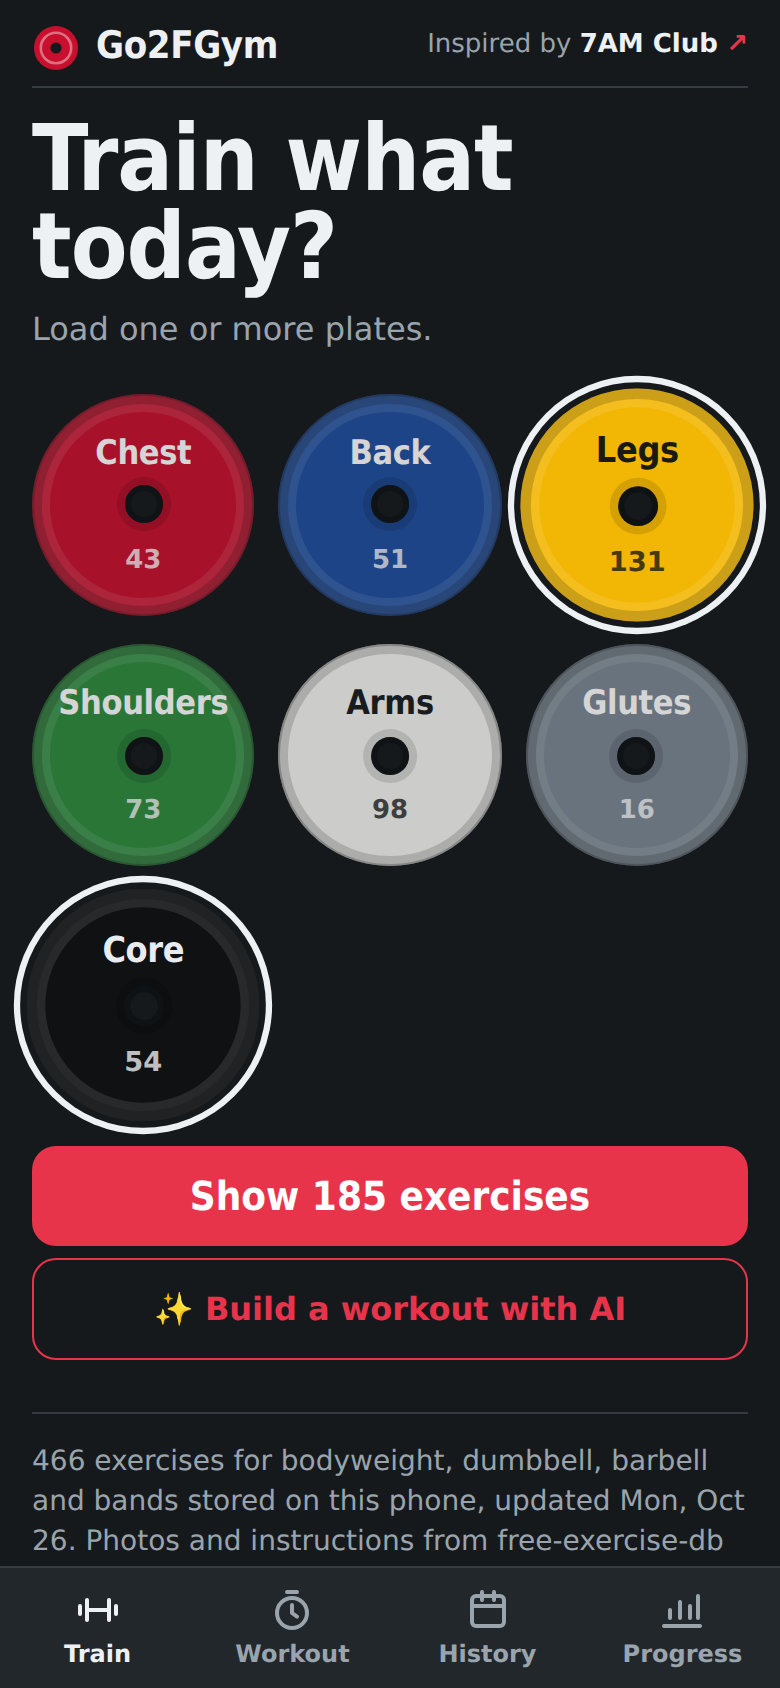
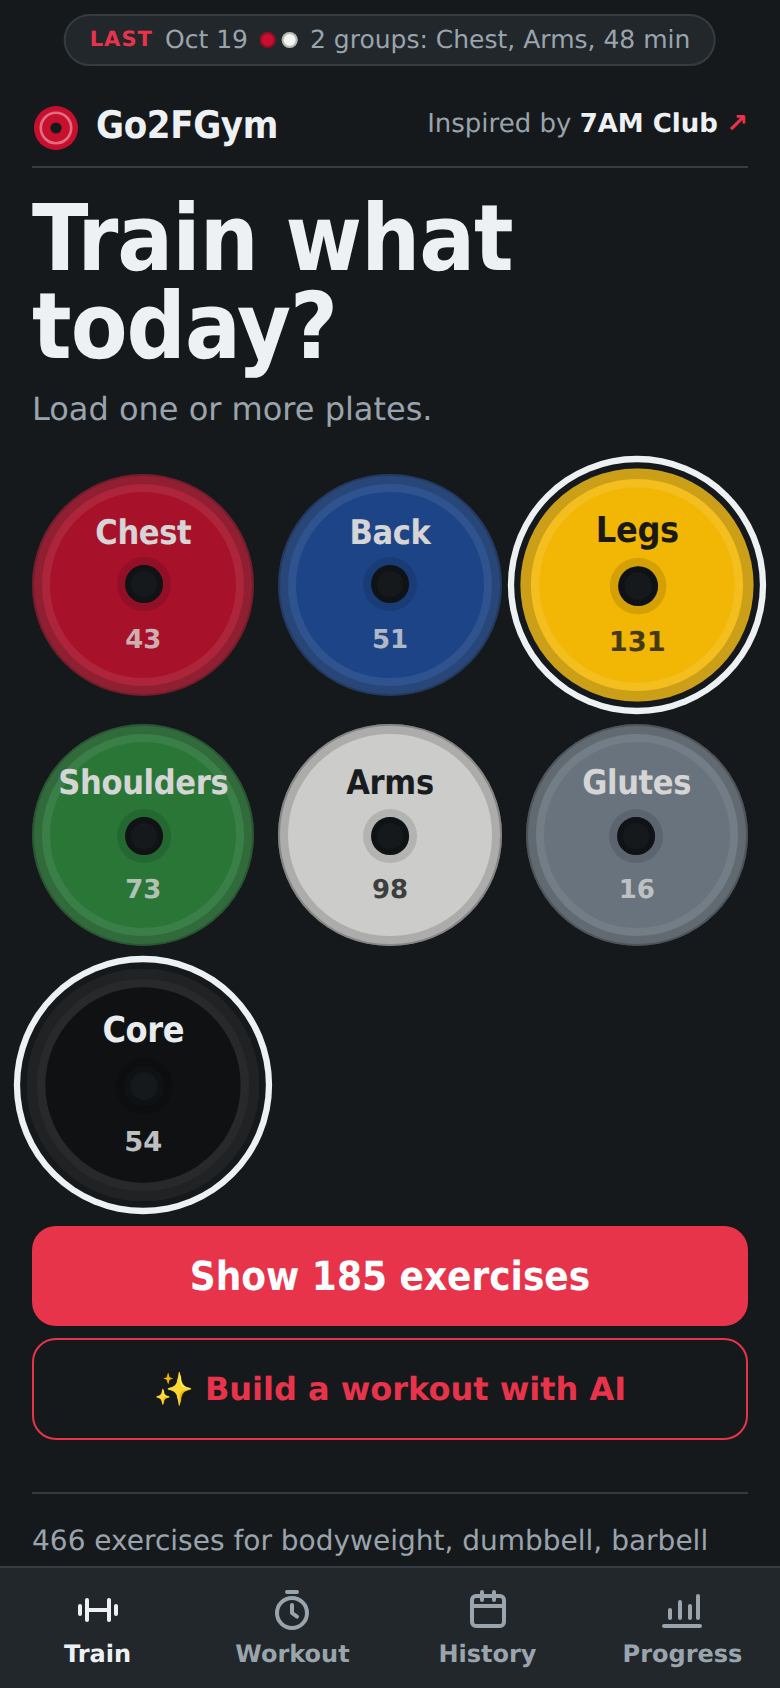
Header polish: last-workout pill replaces stray toast dot, Build workout in builder header, Build next in History and Progress headers

diff --git a/Go2FGym.js b/Go2FGym.js
@@ -459,6 +459,7 @@ function buildHTML(boot) {
 <body><main id="app"></main>
 <div id="rest" hidden><div class="rest-fill"></div><span class="rest-label">Rest</span><span class="rest-time">0:00</span>
 <button data-a="rest-add">+30 s</button><button data-a="rest-skip">Skip</button></div>
+<div id="sat"></div><button id="last" data-a="last" hidden></button>
 <div id="toast" role="status" aria-live="polite"></div><nav id="tabs"></nav>
 <script>window.__BOOT=${data};(${webApp.toString()})();</script></body></html>`;
 }
@@ -986,7 +987,8 @@ function webApp() {
     const b = S.builder;
     const busy = S.aiBusy === "plan";
     const bchip = (v, on, label) => `<button class="chip" data-a="b-chip" data-v="${esc(v)}" aria-pressed="${on}">${esc(label)}</button>`;
-    return `<header class="bar"><button class="back" data-a="home">‹ Muscles</button></header>
+    return `<header class="bar"><button class="back" data-a="home">‹ Muscles</button>
+        <button class="hbtn${busy ? " busy" : ""}" data-a="build" ${busy || !S.ai.hasKey || !b.equipment.length ? "disabled" : ""}>${busy ? "Building…" : "Build workout"}</button></header>
       <h1 class="title">Build my workout</h1>
       <p class="lead">Tell the AI coach what you want. It picks exercises from your library, sets weights from your history and fits it all into your time.</p>
       <h2>What to train</h2>
@@ -1000,8 +1002,7 @@ function webApp() {
       <h2>Anything else?</h2>
       <textarea class="search" data-in="b-note" rows="2" placeholder="Optional, e.g. lower back is a bit sore, or I want to get better at bench press">${esc(b.note)}</textarea>
       ${S.ai.hasKey ? "" : keyBox()}
-      <button class="primary${busy ? " busy" : ""}" data-a="build" ${busy || !S.ai.hasKey || !b.equipment.length ? "disabled" : ""}>${busy ? "Building your workout…" : "Build workout"}</button>
-      <p class="muted small">AI suggestions can be wrong. Check every weight before you lift it.</p>`;
+      <p class="muted small">${busy ? "<b>Building your workout…</b> " : ""}${S.ai.hasKey ? "Tap <b>Build workout</b> at the top when you're ready. " : "Save your key above to enable <b>Build workout</b>. "}AI suggestions can be wrong. Check every weight before you lift it.</p>`;
   }
 
   function renderPlan() {
@@ -1048,7 +1049,6 @@ function webApp() {
       ${focus ? `<h3>Focus next</h3>${focus}` : ""}
       ${a.recovery ? `<h3>Recovery</h3><p>${esc(a.recovery)}</p>` : ""}
       ${a.next.idea ? `<h3>Next workout${a.next.when ? `: ${esc(a.next.when)}` : ""}</h3><p>${nextLabels ? `<b>${esc(nextLabels)}.</b> ` : ""}${esc(a.next.idea)}</p>` : ""}
-      ${a.next.groups.length ? `<button class="primary" data-a="build-next" data-v="${esc(s.id)}">✨ Build this next workout</button>` : ""}
       <button class="link small" data-a="reanalyze" data-v="${esc(s.id)}" ${S.aiBusy ? "disabled" : ""}>${busy ? "Analyzing…" : "Analyze again"}</button>
     </div>`;
   }
@@ -1311,7 +1311,7 @@ function webApp() {
 
   function renderHistory() {
     const ss = sessionsDesc();
-    const head = `<header class="bar"><h1 class="title">History</h1>${ss.length ? `<button class="link" data-a="export">Export CSV</button>` : ""}</header>`;
+    const head = `<header class="bar"><h1 class="title">History</h1>${ss.length ? nextButton() : ""}</header>`;
     if (!ss.length) return head + `<div class="empty"><p>Finished workouts show up here, with every set you logged.</p></div>`;
     const monday = new Date();
     monday.setHours(0, 0, 0, 0);
@@ -1323,7 +1323,8 @@ function webApp() {
       : "No workouts yet this week.";
     const seg = `<div class="seg seg2"><button data-a="hist-view" data-v="calendar" aria-pressed="${S.histView === "calendar"}">Calendar</button>
       <button data-a="hist-view" data-v="list" aria-pressed="${S.histView === "list"}">List</button></div>`;
-    return head + `<p class="lead">${esc(summary)}</p>` + seg + (S.histView === "calendar" ? renderCalendar(ss) : ss.map((s) => sessCard(s)).join(""));
+    return head + `<p class="lead">${esc(summary)}</p>` + seg + (S.histView === "calendar" ? renderCalendar(ss) : ss.map((s) => sessCard(s)).join("")) +
+      `<button class="link" data-a="export">Export CSV</button>`;
   }
 
   function weekStart(d) {
@@ -1334,7 +1335,7 @@ function webApp() {
   }
   function renderProgress() {
     const asc = [...S.history.sessions].sort((a, b) => a.start.localeCompare(b.start));
-    const head = `<header class="bar"><h1 class="title">Progress</h1></header>`;
+    const head = `<header class="bar"><h1 class="title">Progress</h1>${asc.length ? nextButton() : ""}</header>`;
     if (!asc.length) return head + `<div class="empty"><p>Log a few workouts and your trends show up here: weekly volume by muscle group, balance, and your best lifts.</p></div>`;
     // weekly sets stacked by muscle group, last 12 weeks
     const thisWeek = weekStart(new Date());
@@ -1412,8 +1413,48 @@ function webApp() {
       <h2>Muscle balance, last 4 weeks</h2>
       <p class="muted small">Working sets per muscle group, and days since you last trained it. Most due: <b>${dueG.label}</b>.</p>
       <div class="balance">${balance}</div>
-      ${top.length ? `<h2>Your lifts</h2><p class="muted small">Best set per workout as an estimated one-rep max (reps for bodyweight moves). Tap one for details.</p><div class="lifts">${liftRows}</div>` : ""}
-      <button class="secondary ai" data-a="build-due" data-v="${dueG.key}">✨ Build a ${dueG.label.toLowerCase()} workout</button>`;
+      ${top.length ? `<h2>Your lifts</h2><p class="muted small">Best set per workout as an estimated one-rep max (reps for bodyweight moves). Tap one for details.</p><div class="lifts">${liftRows}</div>` : ""}`;
+  }
+
+  // ------------------------------------------------ next workout + last-workout pill
+  function nextSuggestion() {
+    const latest = sessionsDesc()[0];
+    if (latest && latest.ai && latest.ai.next && latest.ai.next.groups.length) {
+      const f = latest.ai.focus_next.find((x) => latest.ai.next.groups.includes(x.group));
+      return { groups: latest.ai.next.groups, intensity: f ? (f.intensity === "light" ? "easy" : f.intensity) : null, why: "your AI coach's suggestion" };
+    }
+    const due = groupStats(28).sort((a, b) => (b.days_since_trained ?? 99) - (a.days_since_trained ?? 99)).slice(0, 2).map((x) => x.group);
+    return { groups: due, intensity: null, why: "your most-due muscle groups" };
+  }
+  function nextButton() {
+    const n = nextSuggestion();
+    const labels = n.groups.map((k) => GROUPS.find((g) => g.key === k).label).join(" + ");
+    return `<button class="hbtn" data-a="build-next-h" aria-label="Build next workout: ${esc(labels)}, based on ${esc(n.why)}">✨ Build next</button>`;
+  }
+  function relDay(iso) {
+    const a = new Date(iso); a.setHours(0, 0, 0, 0);
+    const b = new Date(); b.setHours(0, 0, 0, 0);
+    const d = Math.round((b - a) / 864e5);
+    if (d === 0) return "Today";
+    if (d === 1) return "Yesterday";
+    if (d < 7) return a.toLocaleDateString(undefined, { weekday: "short" });
+    return a.toLocaleDateString(undefined, { day: "numeric", month: "short" });
+  }
+  function updateLast() {
+    const el = $("#last");
+    const s = S.consent ? sessionsDesc()[0] : null;
+    if (!s) { el.hidden = true; return; }
+    const gs = sessionGroups(s);
+    const mins = s.end ? minutesBetween(s.start, s.end) : null;
+    el.innerHTML = `<span class="last-k">Last</span>${esc(relDay(s.start))}<span class="dots">${dotsFor(gs)}</span>${gs.length ? `${plural(gs.length, "group")}: ${esc(gs.map((g) => g.label).join(", "))}` : plural(s.entries.length, "exercise")}${mins ? `, ${mins} min` : ""}`;
+    el.setAttribute("aria-label", `Last workout ${relDay(s.start)}: ${gs.map((g) => g.label).join(", ")}${mins ? `, ${mins} minutes` : ""}. Opens it in History.`);
+    el.dataset.v = s.start;
+    el.hidden = false;
+  }
+  function layoutBand() {
+    const probe = $("#sat");
+    const inset = probe ? probe.offsetHeight : 0;
+    document.documentElement.style.setProperty("--band", `${Math.max(inset, 40)}px`);
   }
 
   // ------------------------------------------------ Strava post
@@ -1532,6 +1573,7 @@ function webApp() {
       : S.tab === "workout" ? renderWorkout() : S.tab === "progress" ? renderProgress() : renderHistory();
     if (S.consent) renderTabs();
     else $tabs.innerHTML = "";
+    updateLast();
     window.scrollTo(0, same ? y : key.startsWith("detail:") ? 0 : S.scroll[key] || 0);
     currentKey = key;
     if (S.detailId) want(S.detailId);
@@ -1684,7 +1726,12 @@ function webApp() {
     "cal-day": (v) => { S.cal.sel = S.cal.sel === v ? null : v; render(); },
     "cal-prev": () => { const d = new Date(S.cal.y, S.cal.m - 1, 1); S.cal = { y: d.getFullYear(), m: d.getMonth(), sel: null }; render(); },
     "cal-next": () => { const d = new Date(S.cal.y, S.cal.m + 1, 1); S.cal = { y: d.getFullYear(), m: d.getMonth(), sel: null }; render(); },
-    "build-due": (v) => openBuilder([v]),
+    "build-next-h": () => {
+      const n = nextSuggestion();
+      if (n.intensity) S.builder.intensity = n.intensity;
+      openBuilder(n.groups);
+    },
+    last: (v) => { focusDay(v); S.detailId = null; S.showDisclaimer = false; S.tab = "history"; render(); },
     "st-mode": (v) => {
       const [id, mode] = v.split("|");
       S.stravaMode[id] = mode;
@@ -1805,6 +1852,8 @@ function webApp() {
     setTimeout(() => toast("Unfinished workout restored"), 300);
   } else S.session = null;
   render();
+  layoutBand();
+  window.addEventListener("resize", layoutBand);
   setInterval(tick, 250);
 }
 
@@ -1823,8 +1872,17 @@ const CSS = `
 }}
 *{box-sizing:border-box;-webkit-tap-highlight-color:transparent}
 html,body{margin:0;background:var(--bg);color:var(--ink);font:16px/1.45 var(--body);-webkit-text-size-adjust:100%}
-body{padding:env(safe-area-inset-top,0px) 0 calc(150px + env(safe-area-inset-bottom,0px))}
-body::before{content:"";position:fixed;inset:0 0 auto;height:env(safe-area-inset-top,0px);background:var(--bg);z-index:10}
+body{padding:var(--band,env(safe-area-inset-top,0px)) 0 calc(150px + env(safe-area-inset-bottom,0px))}
+body::before{content:"";position:fixed;inset:0 0 auto;height:var(--band,env(safe-area-inset-top,0px));background:var(--bg);z-index:10}
+#sat{position:fixed;top:0;left:0;width:1px;height:env(safe-area-inset-top,0px);visibility:hidden;pointer-events:none}
+#last{position:fixed;z-index:12;left:50%;top:calc(var(--band,40px) / 2 - 13px);transform:translateX(-50%);display:flex;align-items:center;gap:6px;
+  height:26px;max-width:calc(100vw - 24px);padding:0 12px;border-radius:999px;background:var(--surface);border:1px solid var(--line);
+  font:500 12.5px/1 var(--body);color:var(--muted);white-space:nowrap;overflow:hidden;text-overflow:ellipsis}
+#last[hidden]{display:none}
+#last .last-k{font-weight:800;color:var(--accent);text-transform:uppercase;font-size:10.5px;letter-spacing:.05em}
+#last .dots{gap:3px}#last .dot{width:8px;height:8px}
+.hbtn{flex:none;background:var(--accent);color:var(--accent-ink);font:700 15px/1 var(--body);padding:9px 14px;border-radius:999px;white-space:nowrap;text-align:center}
+.hbtn:disabled{opacity:.4}
 #app{max-width:640px;margin:0 auto;padding:0 16px 32px}
 button{font:inherit;color:inherit;background:none;border:0;padding:0;cursor:pointer;text-align:inherit}
 button:focus-visible,input:focus-visible{outline:2px solid var(--accent);outline-offset:2px}
@@ -1840,7 +1898,7 @@ p{margin:0 0 10px}
 .club span{color:var(--accent);font-weight:700}
 .title{font:800 32px/1.02 var(--display);margin:6px 0 12px;letter-spacing:-.01em}
 .lead{color:var(--muted);margin-bottom:16px}
-.bar{display:flex;align-items:center;justify-content:space-between;gap:12px;min-height:48px;position:sticky;top:env(safe-area-inset-top,0px);background:var(--bg);z-index:5}
+.bar{display:flex;align-items:center;justify-content:space-between;gap:12px;min-height:48px;position:sticky;top:var(--band,env(safe-area-inset-top,0px));background:var(--bg);z-index:5}
 .bar .title{margin:10px 0}
 .back{font-weight:600;color:var(--accent);padding:10px 0}
 .link{color:var(--accent);font-weight:600;padding:10px 0}
@@ -2004,9 +2062,10 @@ textarea.search{resize:none;line-height:1.4}
 .rest-time{font:800 28px/1 var(--display);font-variant-numeric:tabular-nums;margin-right:auto;min-width:3ch}
 #rest button{font-weight:700;font-size:15px;padding:6px 0;position:relative}
 #rest.go{background:var(--done);color:#fff}
-#toast{position:fixed;left:50%;top:calc(env(safe-area-inset-top,0px) + 10px);transform:translate(-50%,-150%);max-width:88vw;padding:10px 16px;border-radius:10px;
-  background:var(--ink);color:var(--bg);font-size:15px;font-weight:600;z-index:30;transition:transform .25s ease;pointer-events:none;text-align:center}
-#toast.show{transform:translate(-50%,0)}#toast.err{background:var(--accent);color:#fff}
+#toast{position:fixed;left:50%;top:calc(var(--band,40px) / 2 - 17px);transform:translate(-50%,-8px);max-width:88vw;padding:8px 16px;border-radius:12px;
+  background:var(--ink);color:var(--bg);font-size:15px;font-weight:600;z-index:30;pointer-events:none;text-align:center;
+  opacity:0;visibility:hidden;transition:opacity .2s ease,transform .2s ease,visibility .2s}
+#toast.show{opacity:1;visibility:visible;transform:translate(-50%,0)}#toast.err{background:var(--accent);color:#fff}
 #tabs{position:fixed;left:0;right:0;bottom:0;display:grid;grid-template-columns:repeat(4,1fr);background:var(--surface);border-top:1px solid var(--line);
   padding-bottom:env(safe-area-inset-bottom,0px);z-index:20}
 #tabs button{display:flex;flex-direction:column;align-items:center;gap:3px;padding:9px 0 10px;font:600 12px var(--body);color:var(--muted)}
